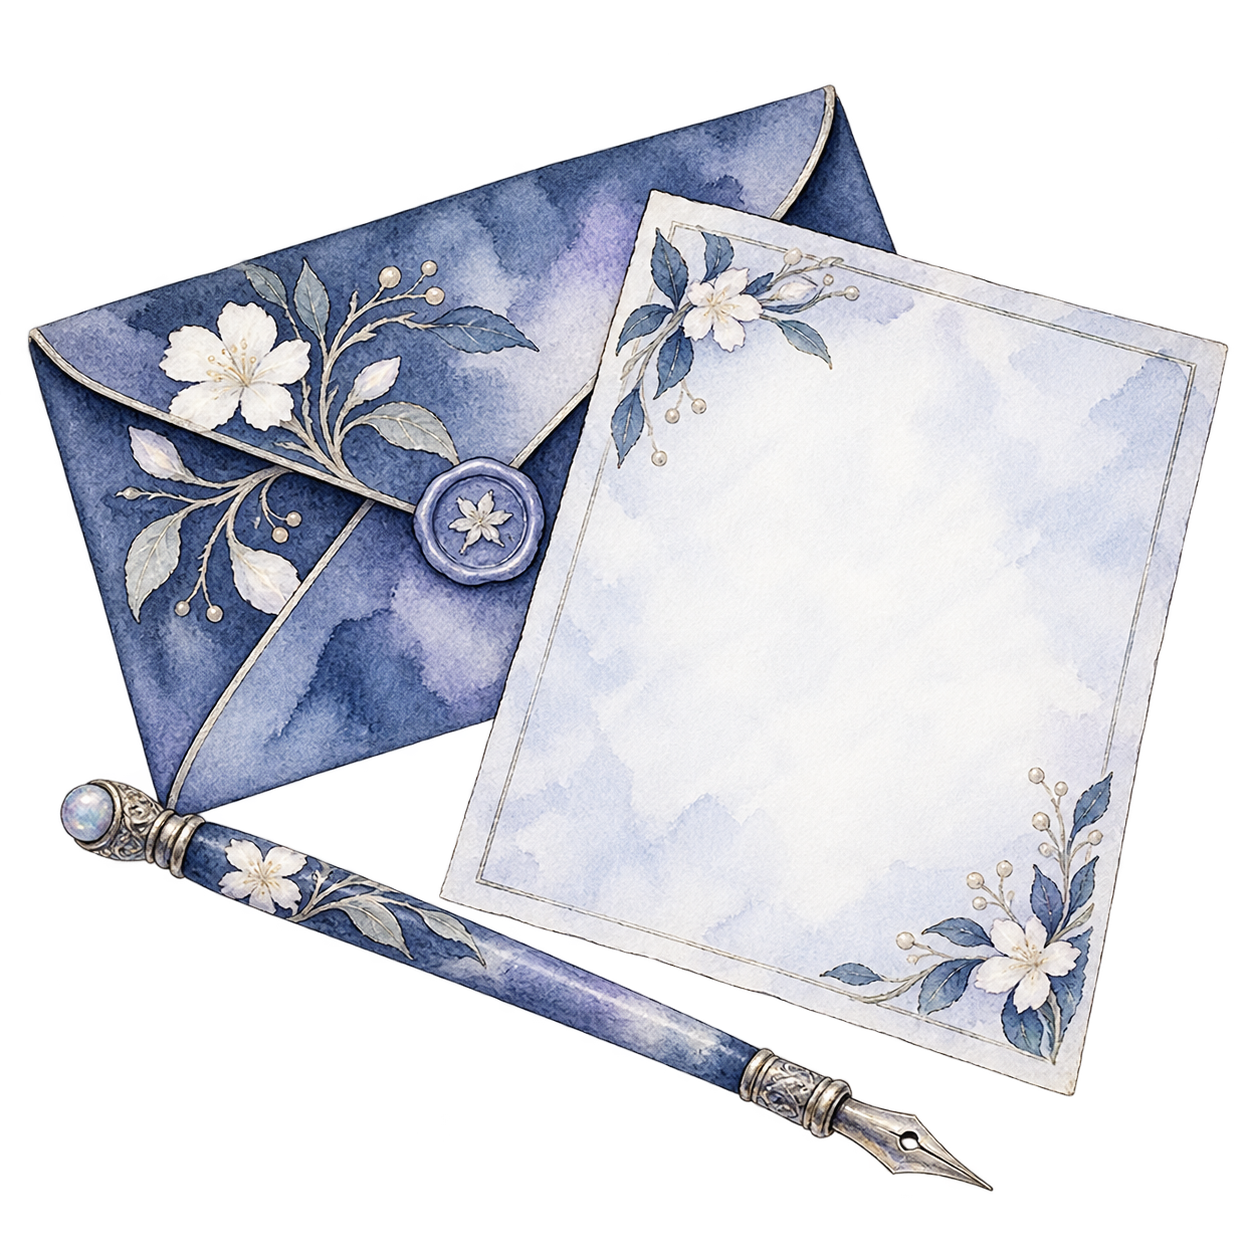
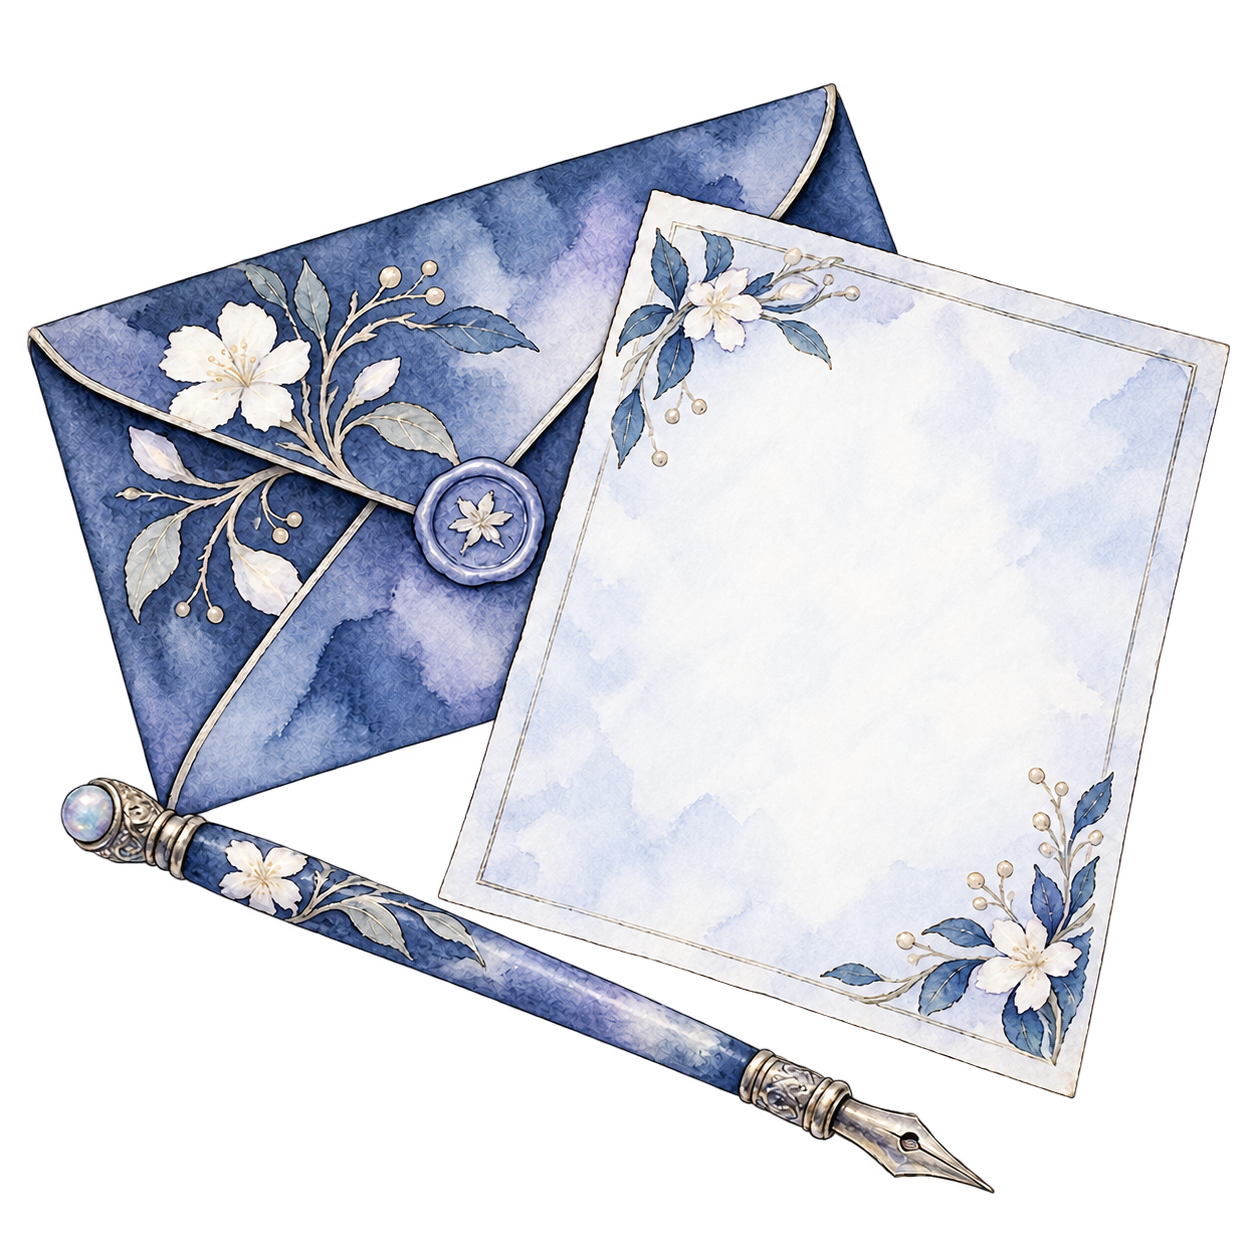
Repair Royal Correspondence envelope seam behind the paper

diff --git a/docs/ENVELOPE_LINE_REPAIR.md b/docs/ENVELOPE_LINE_REPAIR.md
@@ -1,0 +1,9 @@
+# Royal Correspondence outline repair
+
+The visible envelope flap seam now connects the wax seal to the foreground sheet's occlusion boundary. The cool watercolour palette, blank sheet, flowers and pen remain in place.
+
+Asset: `public/assets/palace-courts/prize-majapahit-8.png`.
+
+Generated with the built-in image tool from the previous artwork.
+
+Prompt: Use case: precise-object-edit. Correct ONLY the envelope construction in this existing Palace Royal Correspondence watercolour. The visible right-hand diagonal flap seam, from the circular wax seal upward/right toward the sheet of paper, is missing/abruptly broken. Draw a continuous delicate silver-blue outline from the seal to exactly where the foreground paper occludes the envelope. All visible portions of the envelope perimeter and folded flap seams must connect coherently and end only at real occlusion boundaries. The envelope must read as one properly drawn rectangular envelope behind the paper; no stray floating line, unexplained gap or seam drawn across the foreground sheet. Preserve the sheet position, blank writing area, floral corners, pen, seal, overall composition, natural handmade watercolour textures and cool blue/lavender/white/silver palette. Do not add objects, warm filters, text, thicker borders or new decoration. Preserve transparent background and full uncropped objects.
